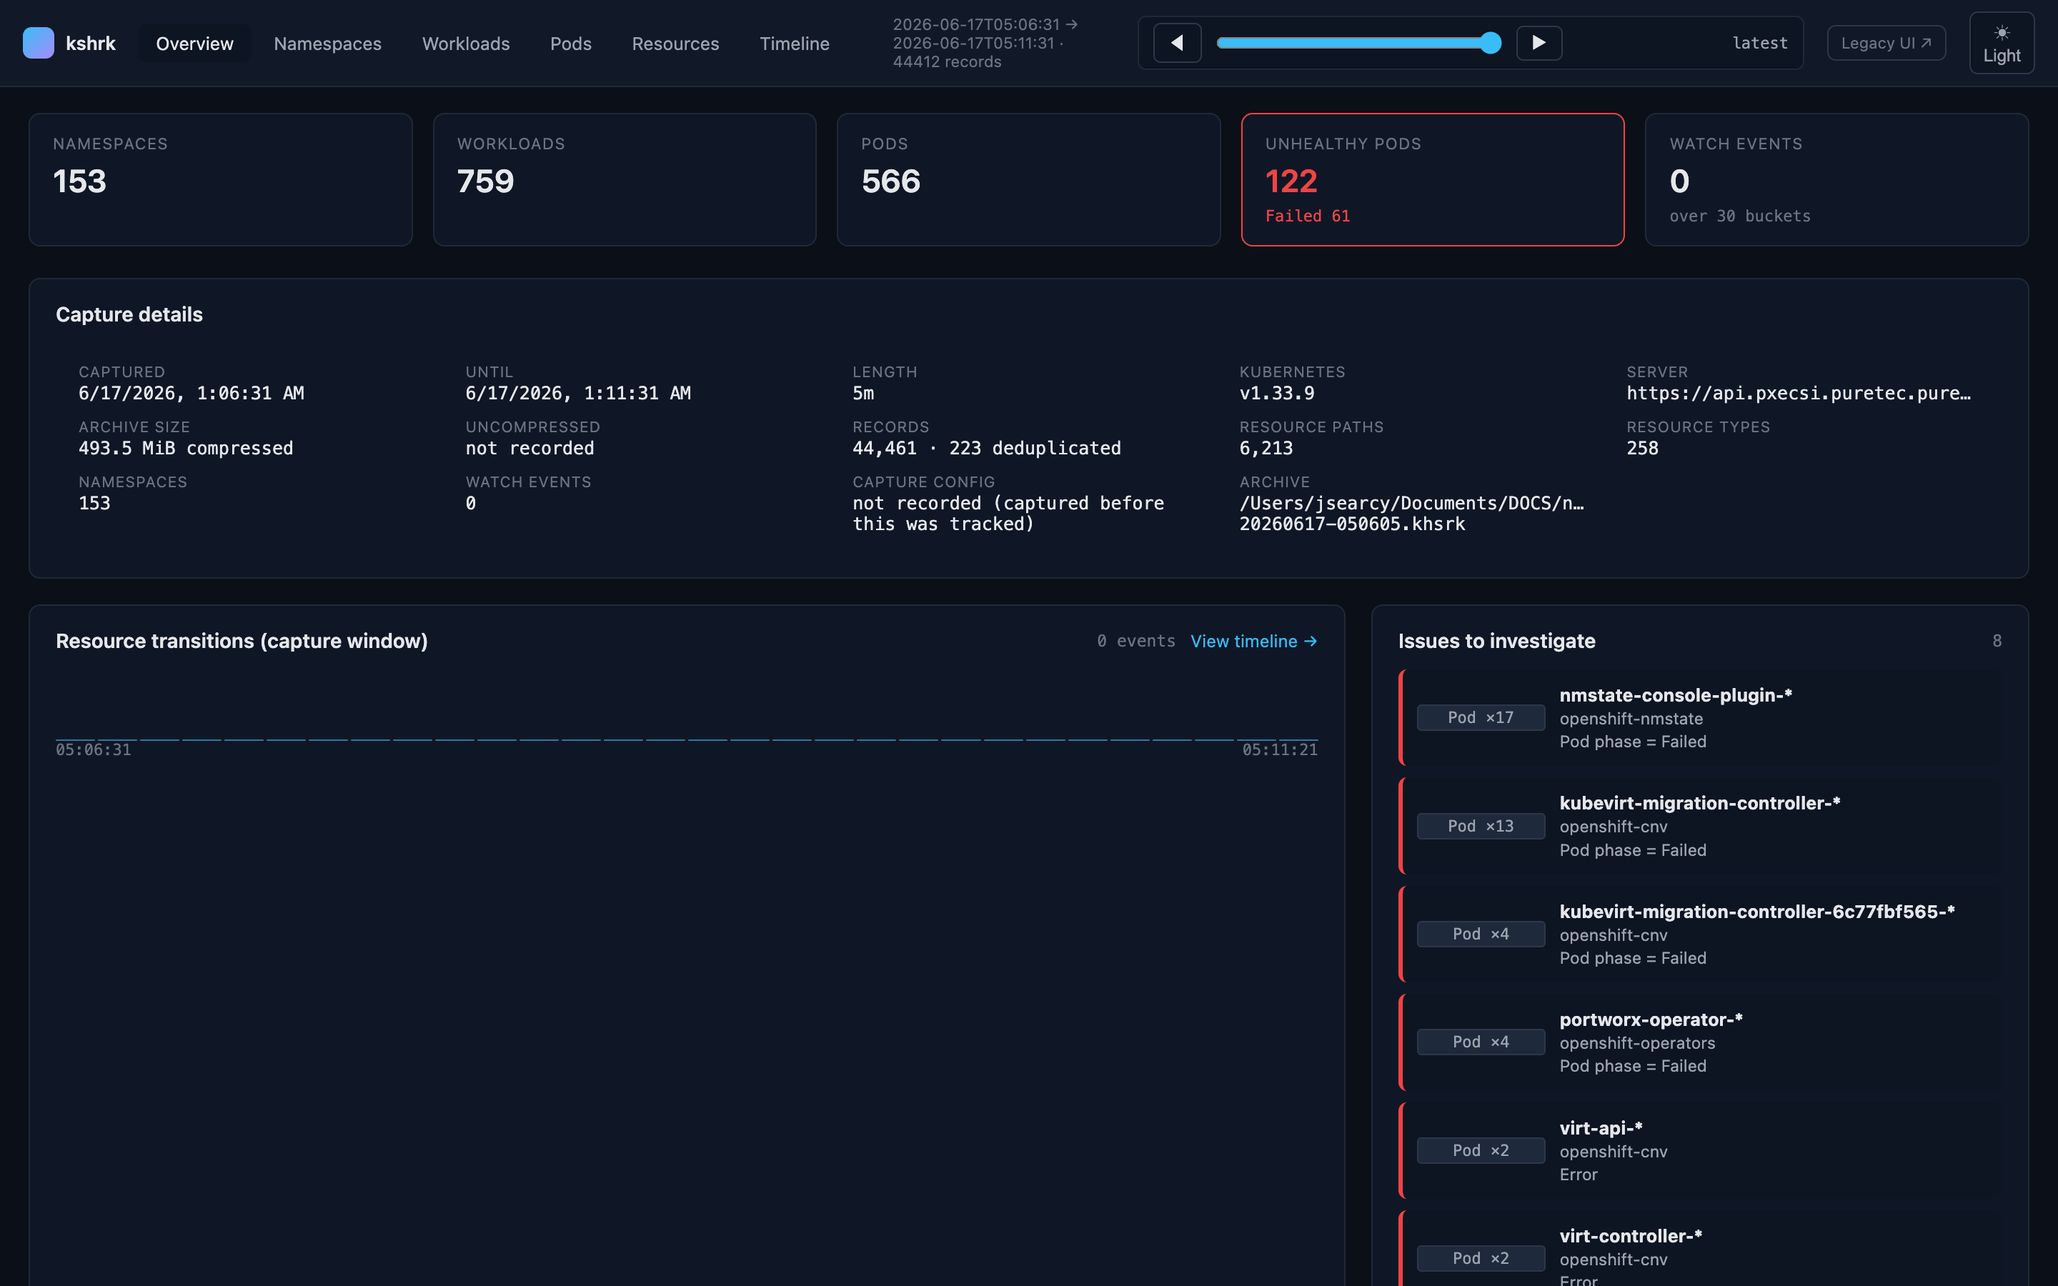
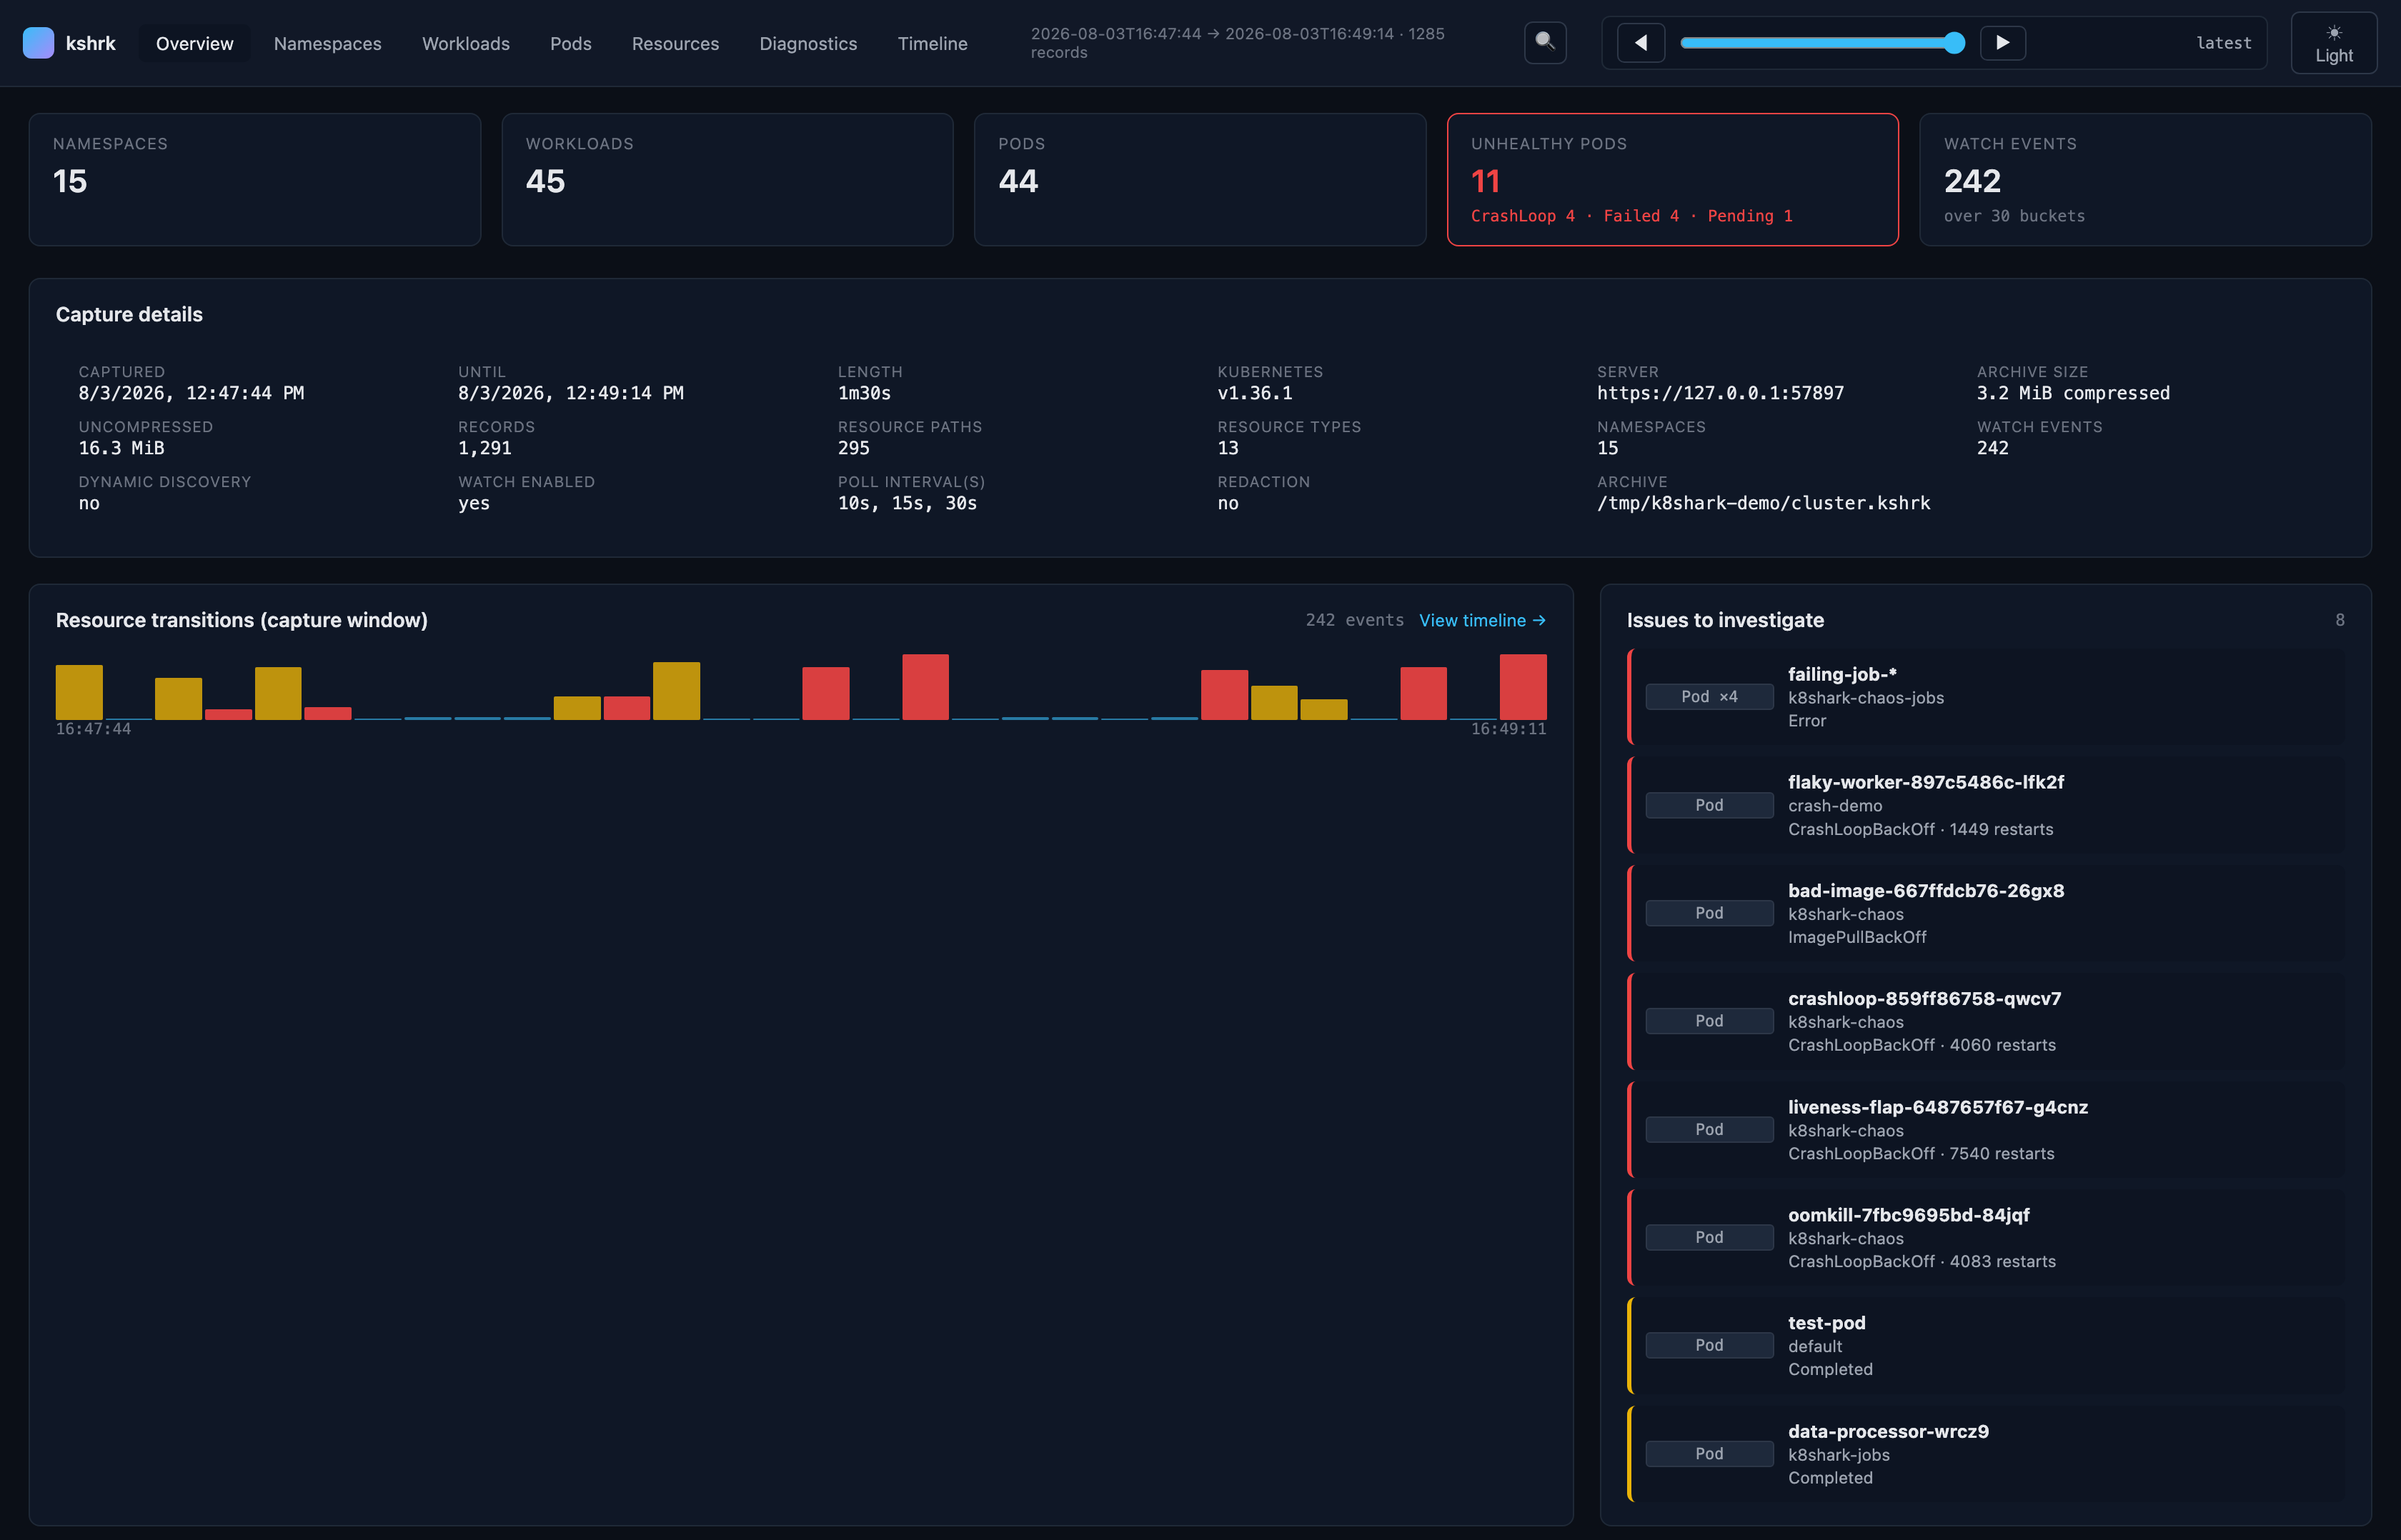
site: refresh for v1.0.0 — legible demo, clean dashboard, stability messaging
The page still described k8shark as pre-stable and both assets had real
problems, so this refreshes all three files together.

index.html:
  * "under active development / until the API and archive format stabilize"
    replaced with the v1.0 stability guarantee, linking docs/stability-policy.md.
    The old wording directly contradicted a shipped 1.0.0.
  * `brew install` -> `brew install --cask`. The tap ships Casks/k8shark.rb and
    has no root-level k8shark formula, and this matches the README.
  * Added the macOS Gatekeeper note. Homebrew *applies* com.apple.quarantine to
    cask installs, so the primary documented install path is Gatekeeper-blocked
    on first run and the page said nothing about it.
  * Fixed the `.khsrk` typo -> `.kshrk`, and mentioned that capture watches for
    changes as well as polling.
  * Gave the two media sections a wider column than the body text (1320px vs
    860px). Both assets are detail-dense; squeezing a 1440px terminal capture
    into an 860px text column was what made the old recording unreadable.
  * Added v1.0/license/platform badges and alt text that describes what each
    image actually shows.

demo.gif: re-recorded at FontSize 16 / 1440x860. Apparent terminal text on the
page goes from ~8.8px to ~14.1px at a typical laptop width.

dashboard.png: re-captured from a local KinD cluster. The previous screenshot
leaked an internal cluster hostname and a developer's home directory, showed a
[…]

diff --git a/index.html b/index.html
@@ -15,7 +15,7 @@
   :root{
     --bg:#0b0e14; --panel:#121722; --panel-2:#0f141d; --border:#222b3a;
     --text:#e6edf6; --muted:#93a1b5; --accent:#5b9dff; --accent-2:#7c5cff;
-    --code-bg:#0d1119;
+    --code-bg:#0d1119; --ok:#3fb950;
   }
   *{box-sizing:border-box}
   html{scroll-behavior:smooth}
@@ -27,9 +27,23 @@
   a{color:var(--accent); text-decoration:none}
   a:hover{text-decoration:underline}
   .wrap{max-width:860px; margin-left:auto; margin-right:auto; padding:0 24px}
+  /* Screenshots and the terminal recording are detail-dense: giving them a
+     wider column than the body text keeps the text legible at native scale
+     instead of downscaling a 1440px-wide capture into an 860px slot.
+     1320px - 48px of padding = a 1272px content box, so demo.gif (1440px wide,
+     recorded at FontSize 16) renders at ~14.1px apparent — a real gain over the
+     13px it used to be, rather than the parity a 1220px column would give. */
+  .wrap.wide{max-width:1320px}
   header{padding:72px 0 0; text-align:center}
   header img.logo{width:300px; max-width:80%; height:auto}
   .tagline{color:var(--muted); font-size:20px; margin:12px 0 0}
+  .badges{display:flex; gap:8px; justify-content:center; flex-wrap:wrap; margin:18px 0 0}
+  .badge{
+    display:inline-flex; align-items:center; gap:6px; padding:4px 11px; border-radius:999px;
+    border:1px solid var(--border); background:var(--panel-2); color:var(--muted);
+    font-size:13px; font-weight:600;
+  }
+  .badge.stable{color:var(--ok); border-color:rgba(63,185,80,.35)}
   .lede{margin:24px 0 0; text-align:center; font-size:18px; color:var(--text)}
   .cta{display:flex; gap:12px; justify-content:center; flex-wrap:wrap; margin:28px 0 0}
   .btn{
@@ -48,6 +62,7 @@
   pre:last-child{margin-bottom:0}
   section{margin-top:80px}
   h2{font-size:24px; margin:0 0 24px; text-align:center}
+  .caption{text-align:center; color:var(--muted); font-size:14px; margin:14px 0 0}
   .shot{display:block; width:100%; height:auto; border:1px solid var(--border); border-radius:12px; box-shadow:0 8px 40px rgba(0,0,0,.4)}
   .steps{display:grid; grid-template-columns:repeat(3,1fr); gap:16px}
   .step{background:var(--panel); border:1px solid var(--border); border-radius:12px; padding:20px}
@@ -55,7 +70,9 @@
   .step h3{margin:0 0 6px; font-size:16px}
   .step p{margin:0; color:var(--muted); font-size:14px}
   .step code{background:var(--code-bg); border:1px solid var(--border); border-radius:6px; padding:1px 6px; font-size:13px}
-  .note{text-align:center; color:var(--muted); font-size:14px; background:var(--panel-2); border:1px solid var(--border); border-radius:10px; padding:16px 18px}
+  .note{color:var(--muted); font-size:14px; background:var(--panel-2); border:1px solid var(--border); border-radius:10px; padding:16px 18px; margin:0}
+  .note.center{text-align:center}
+  .note code{background:var(--code-bg); border:1px solid var(--border); border-radius:6px; padding:1px 6px; font-size:13px}
   footer{margin-top:80px; border-top:1px solid var(--border); padding:28px 0 40px; text-align:center; color:var(--muted); font-size:14px}
   @media (max-width:680px){ .steps{grid-template-columns:1fr} header{padding-top:40px} }
 </style>
@@ -64,6 +81,11 @@
 <header class="wrap">
   <img class="logo" src="logo.png" alt="k8shark">
   <p class="tagline">Like Wireshark, but for Kubernetes.</p>
+  <div class="badges">
+    <span class="badge stable">v1.0 — stable</span>
+    <span class="badge">Apache-2.0</span>
+    <span class="badge">macOS · Linux · Windows</span>
+  </div>
 </header>
 
 <div class="wrap">
@@ -84,14 +106,21 @@
 <section class="wrap">
   <h2>Install</h2>
   <pre><span class="c"># Homebrew</span>
-brew install phenixblue/tap/k8shark
+brew install --cask phenixblue/tap/k8shark
 
 <span class="c"># or with Go</span>
 go install github.com/phenixblue/k8shark@latest</pre>
+  <p class="note">
+    <strong>macOS:</strong> Homebrew quarantines cask installs, so the first run is blocked by
+    Gatekeeper. Approve it once under <em>System Settings → Privacy &amp; Security</em>, or clear the
+    attribute yourself — see
+    <a href="https://github.com/phenixblue/k8shark/blob/main/docs/usage.md#macos-first-run-is-blocked-by-gatekeeper">the install notes</a>.
+  </p>
 </section>
 
-<section class="wrap">
-  <img class="shot" src="demo.gif" alt="k8shark capture and replay demo">
+<section class="wrap wide">
+  <img class="shot" src="demo.gif" alt="Terminal recording: kshrk captures a cluster, then kubectl queries the archive through the mock API server">
+  <p class="caption">Capture a live cluster, then run <code>kubectl</code> against the archive — no cluster required.</p>
 </section>
 
 <section class="wrap">
@@ -100,7 +129,7 @@ go install github.com/phenixblue/k8shark@latest</pre>
     <div class="step">
       <span class="n">1</span>
       <h3>Capture</h3>
-      <p><code>kshrk capture</code> polls the Kubernetes API at set intervals and packages every response into a single <code>.khsrk</code> archive.</p>
+      <p><code>kshrk capture</code> polls the Kubernetes API at set intervals — and watches for changes — packaging every response into a single <code>.kshrk</code> archive.</p>
     </div>
     <div class="step">
       <span class="n">2</span>
@@ -115,18 +144,21 @@ go install github.com/phenixblue/k8shark@latest</pre>
   </div>
 </section>
 
-<section class="wrap">
+<section class="wrap wide">
   <h2>Built-in dashboard</h2>
   <a href="https://github.com/phenixblue/k8shark/blob/main/docs/web-ui.md">
-    <img class="shot" src="dashboard.png" alt="k8shark web dashboard overview">
+    <img class="shot" src="dashboard.png" alt="k8shark web dashboard: cluster totals, capture details, a resource-transition histogram, and a list of unhealthy pods to investigate">
   </a>
+  <p class="caption">Cluster totals, capture provenance, a watch-event timeline, and the pods worth looking at first.</p>
 </section>
 
 <section class="wrap">
-  <p class="note">
-    <strong>k8shark is under active development.</strong> Until the API and archive format stabilize,
-    prefer the latest <a href="https://github.com/phenixblue/k8shark/releases/latest">release</a> for
-    compatibility fixes and current behavior.
+  <p class="note center">
+    <strong>k8shark 1.0 is stable.</strong> The CLI surface, <code>-o json</code> output shapes, config
+    schema, and <code>.kshrk</code> archive format are covered by
+    <a href="https://github.com/phenixblue/k8shark/blob/main/docs/stability-policy.md">a published
+    stability policy</a> and semantic versioning: the 1.x line reads every version-1 archive for the
+    life of the series, and breaking changes wait for 2.0.
   </p>
 </section>
 
